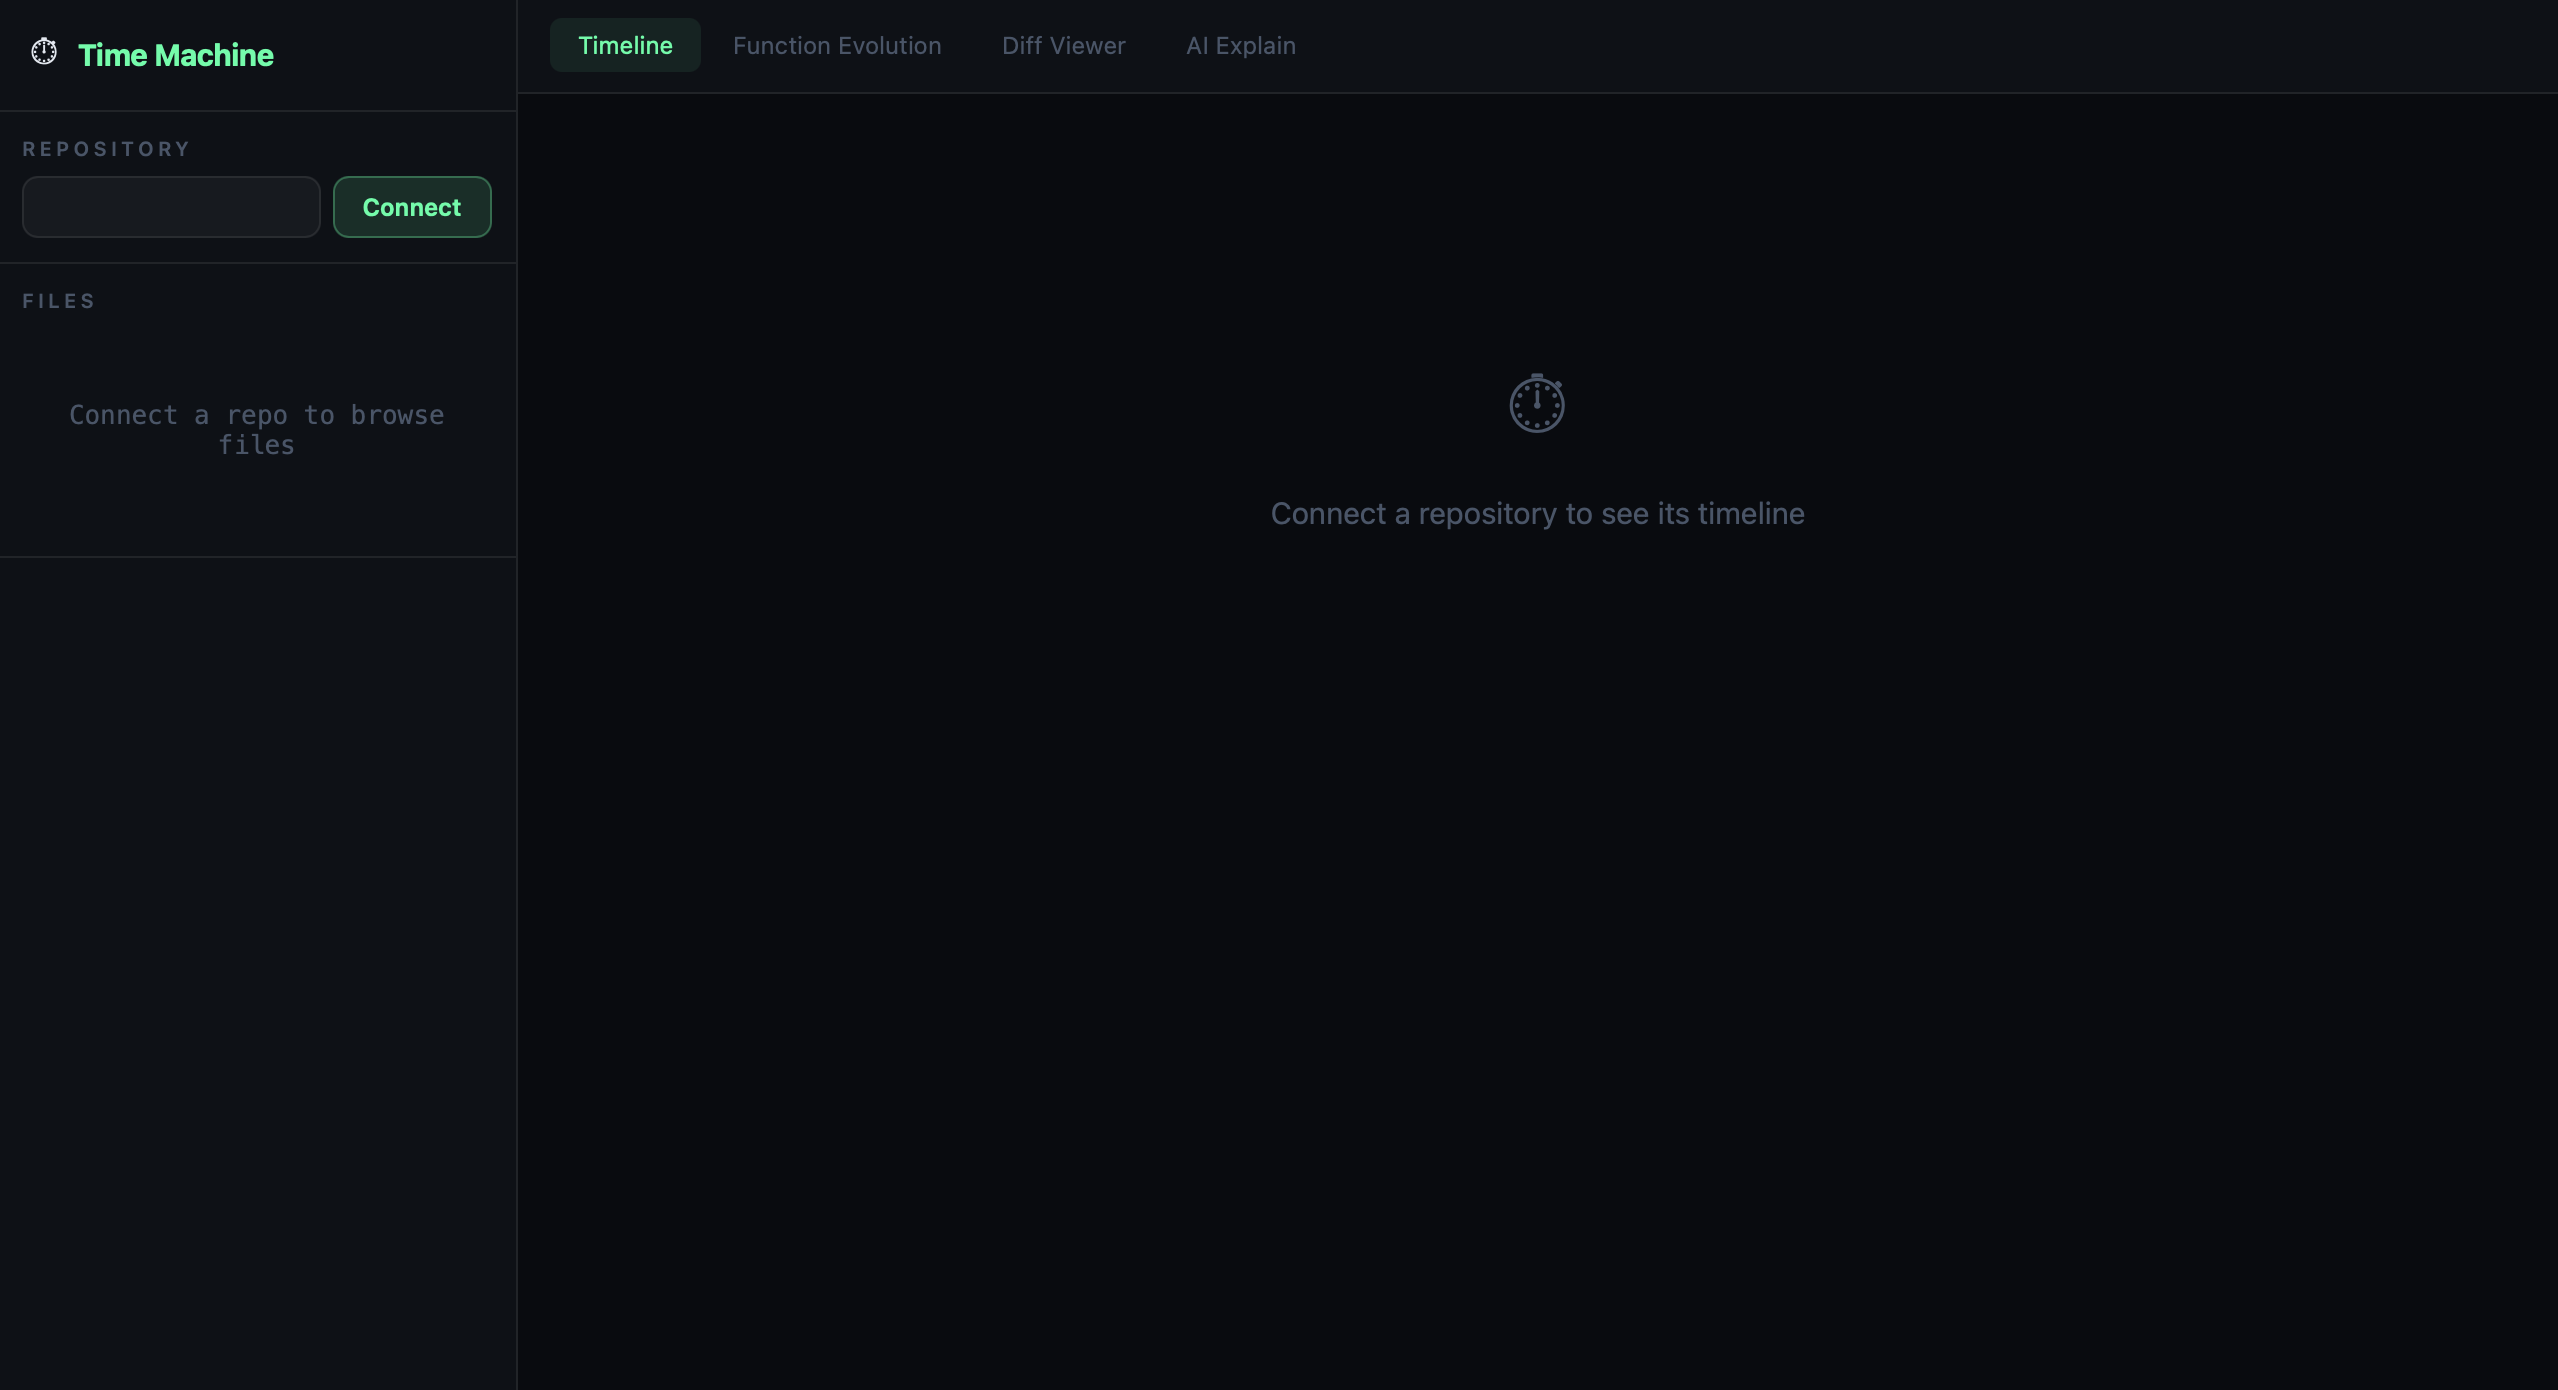
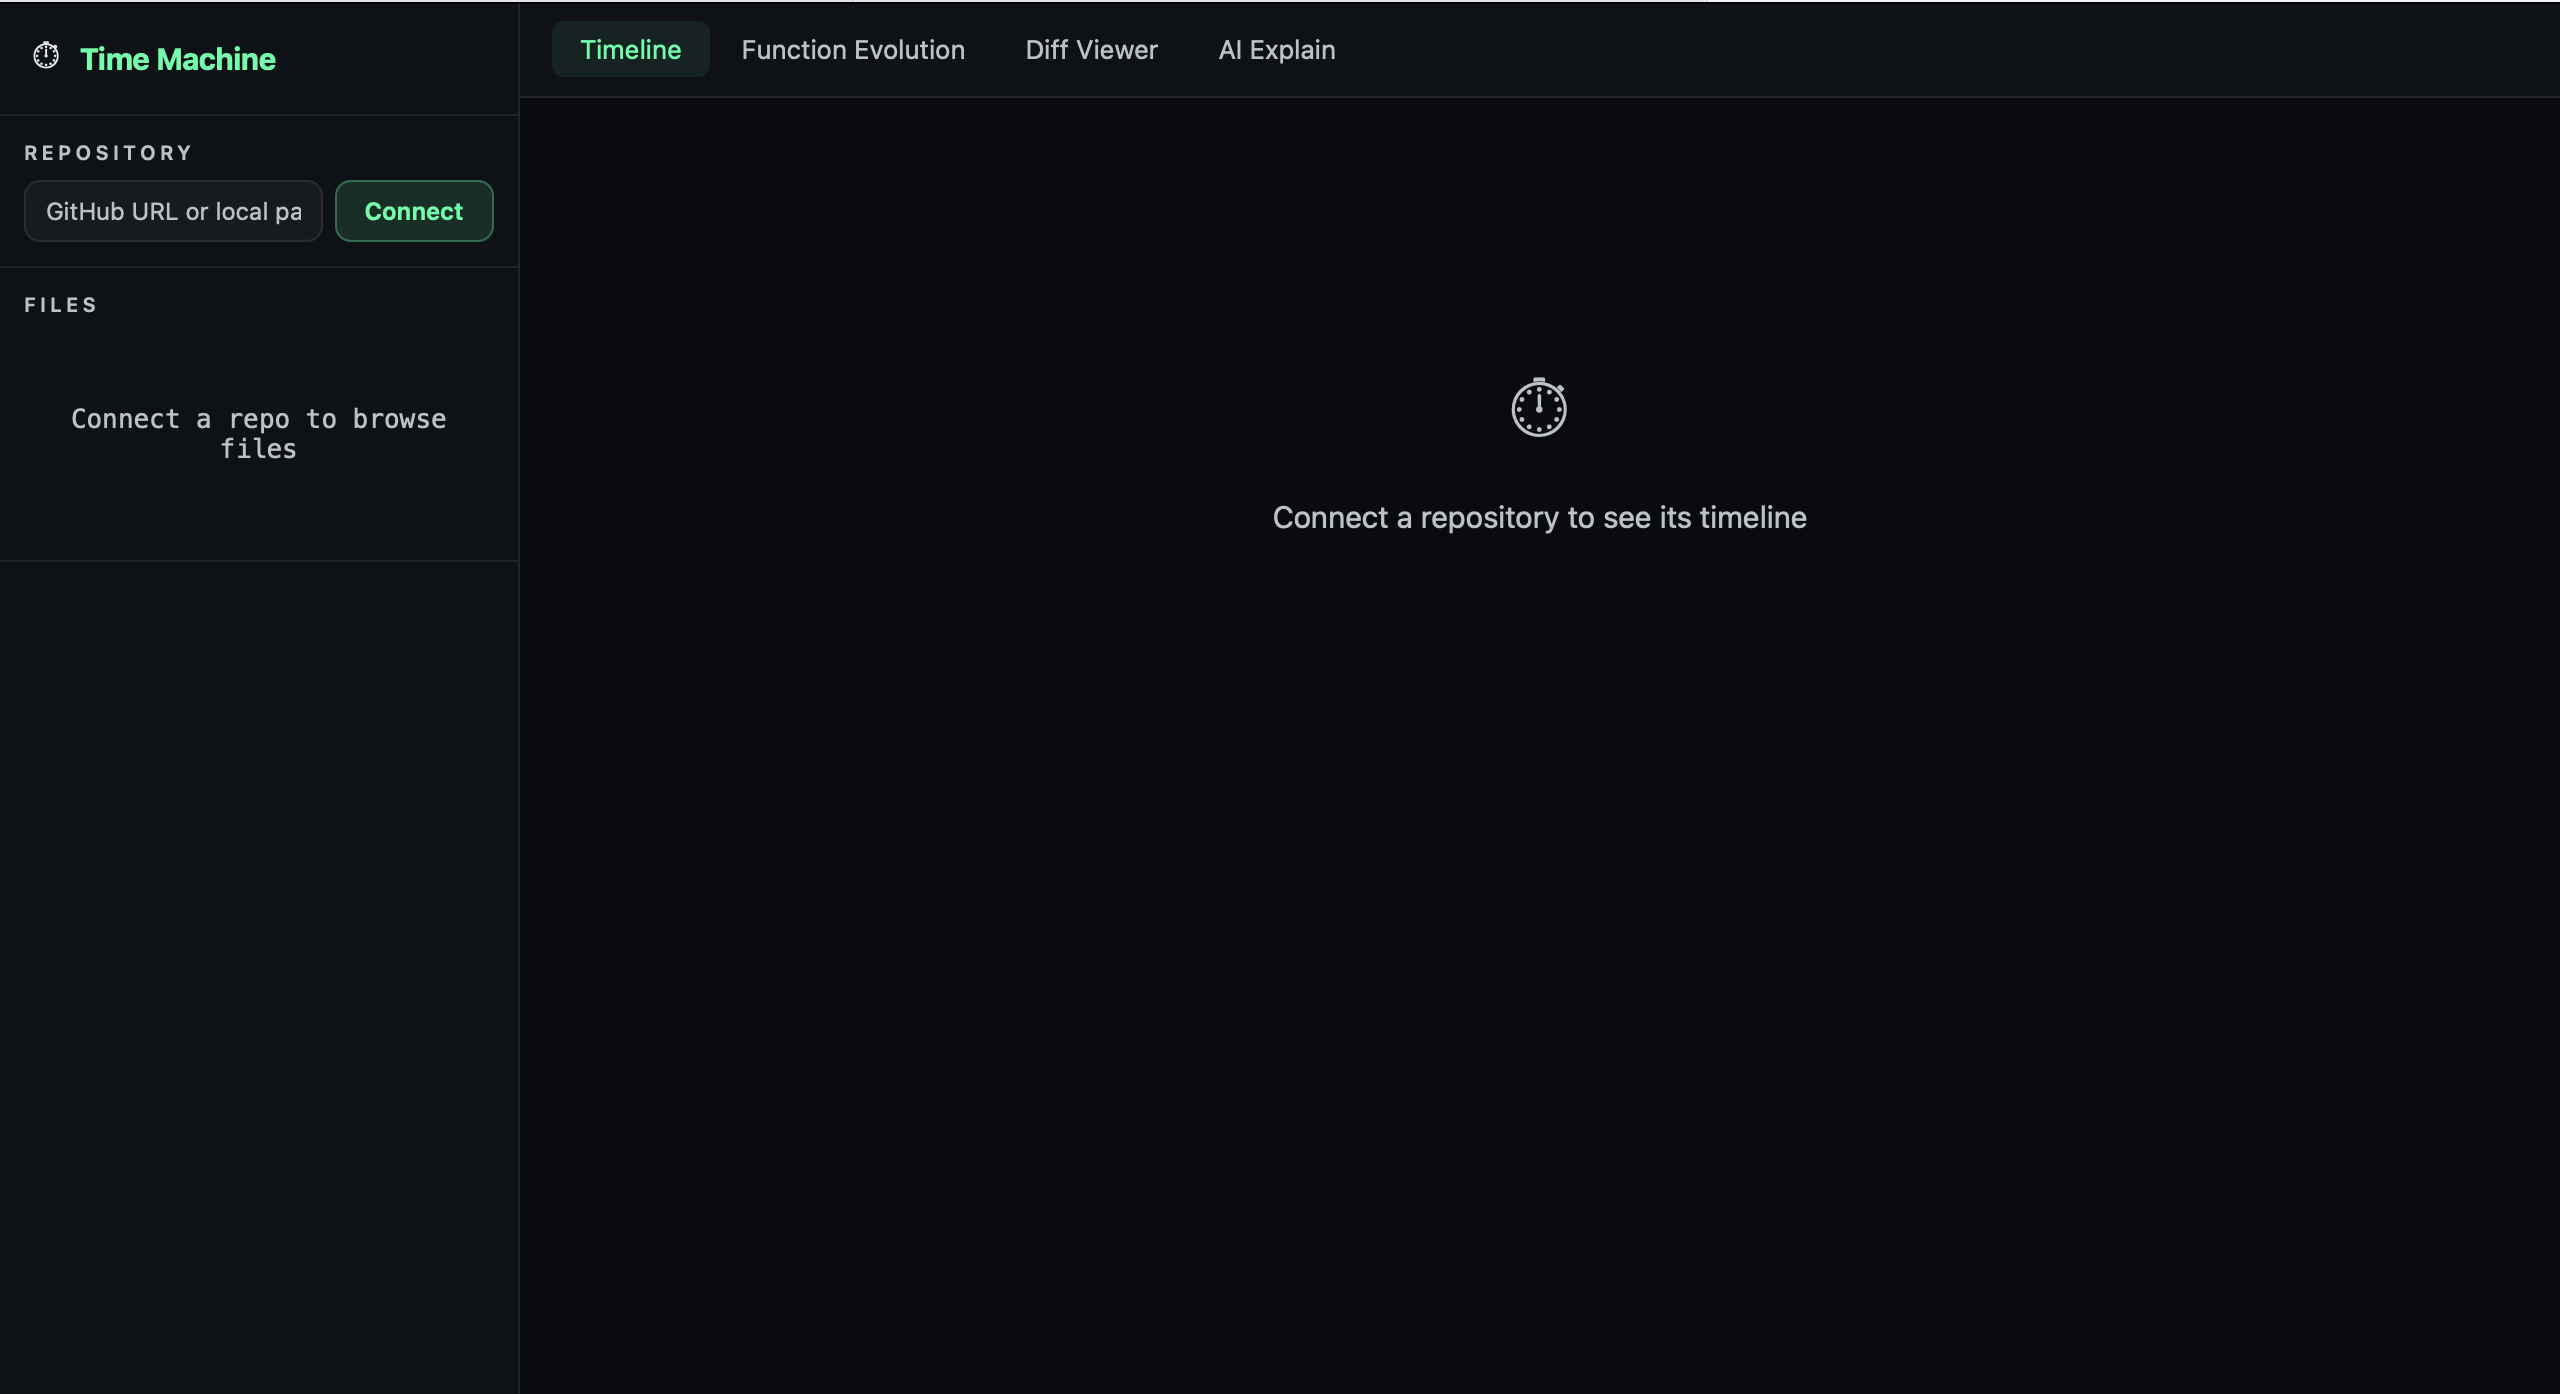
added Preview Imgs

diff --git a/frontend/style.css b/frontend/style.css
@@ -9,7 +9,7 @@
   --border: rgba(255,255,255,0.08);
   --text: #e2e8f0;
   --text2: #94a3b8;
-  --text3: #475569;
+  --text3: #bcc1c8;
   --accent: #00ffa3;
   --accent2: #38bdf8;
   --accent3: #fbbf24;
@@ -32,7 +32,6 @@ html, body { height: 100%; background: var(--bg); color: var(--text); font-famil
 #app { display: flex; height: 100vh; }
 
 /* ─── Sidebar ───────────────────────────────────────────────────── */
-
 #sidebar {
   width: var(--sidebar-w);
   min-width: var(--sidebar-w);
@@ -140,7 +139,7 @@ html, body { height: 100%; background: var(--bg); color: var(--text); font-famil
   background: none;
   border: none;
   color: var(--text3);
-  font-size: 12px;
+  font-size: 13px;
   font-family: var(--font-ui);
   padding: 6px 14px;
   border-radius: 6px;
